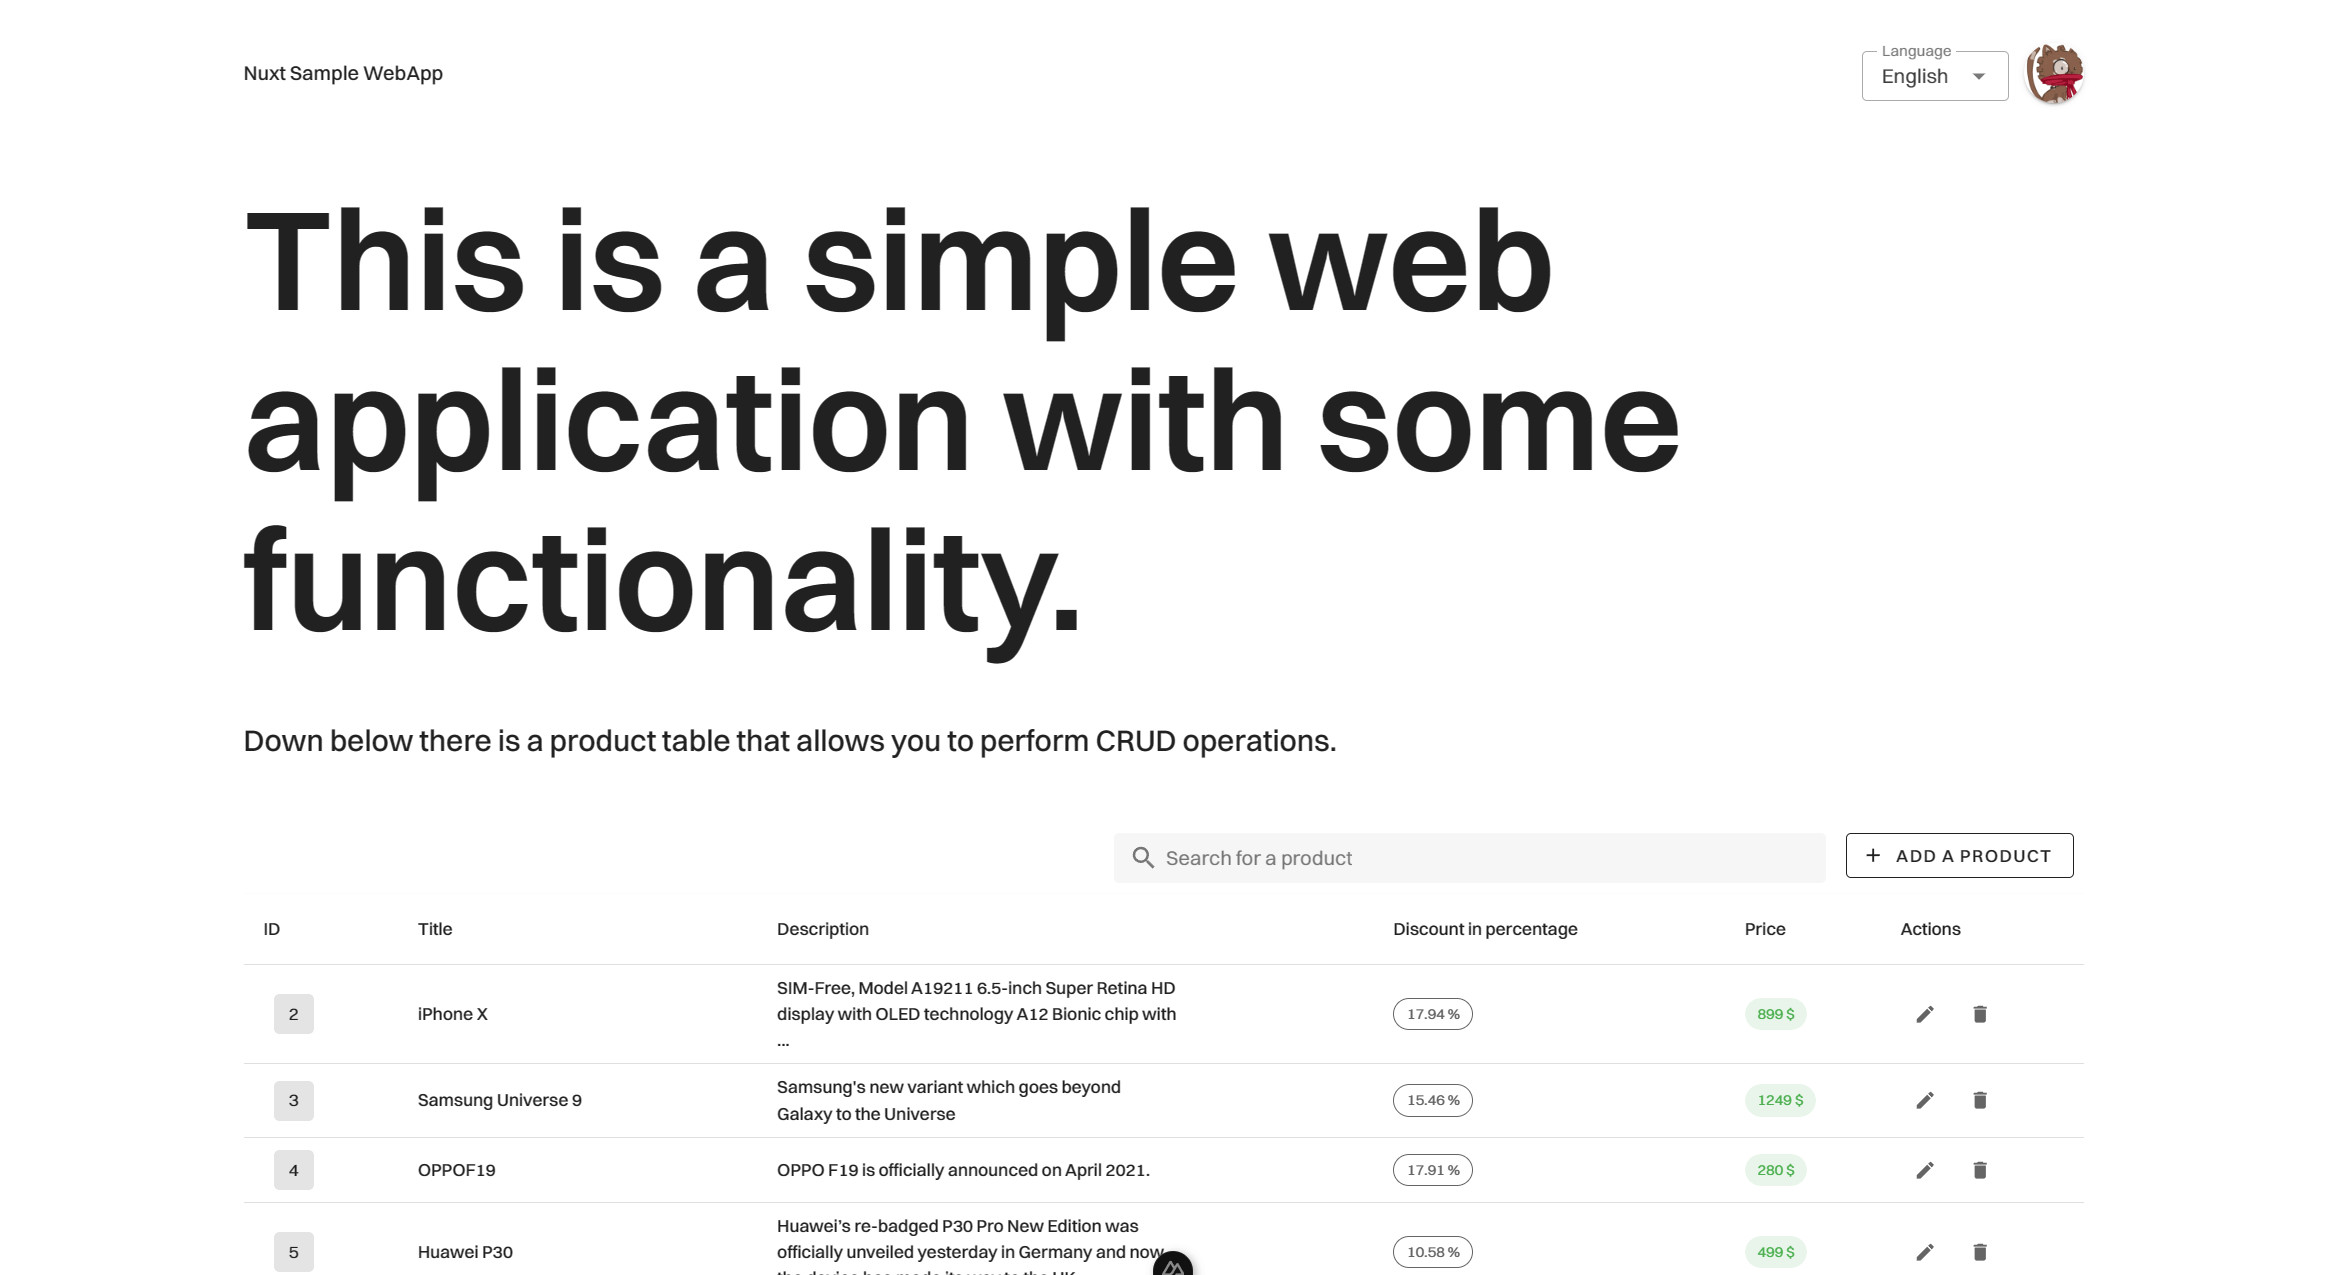
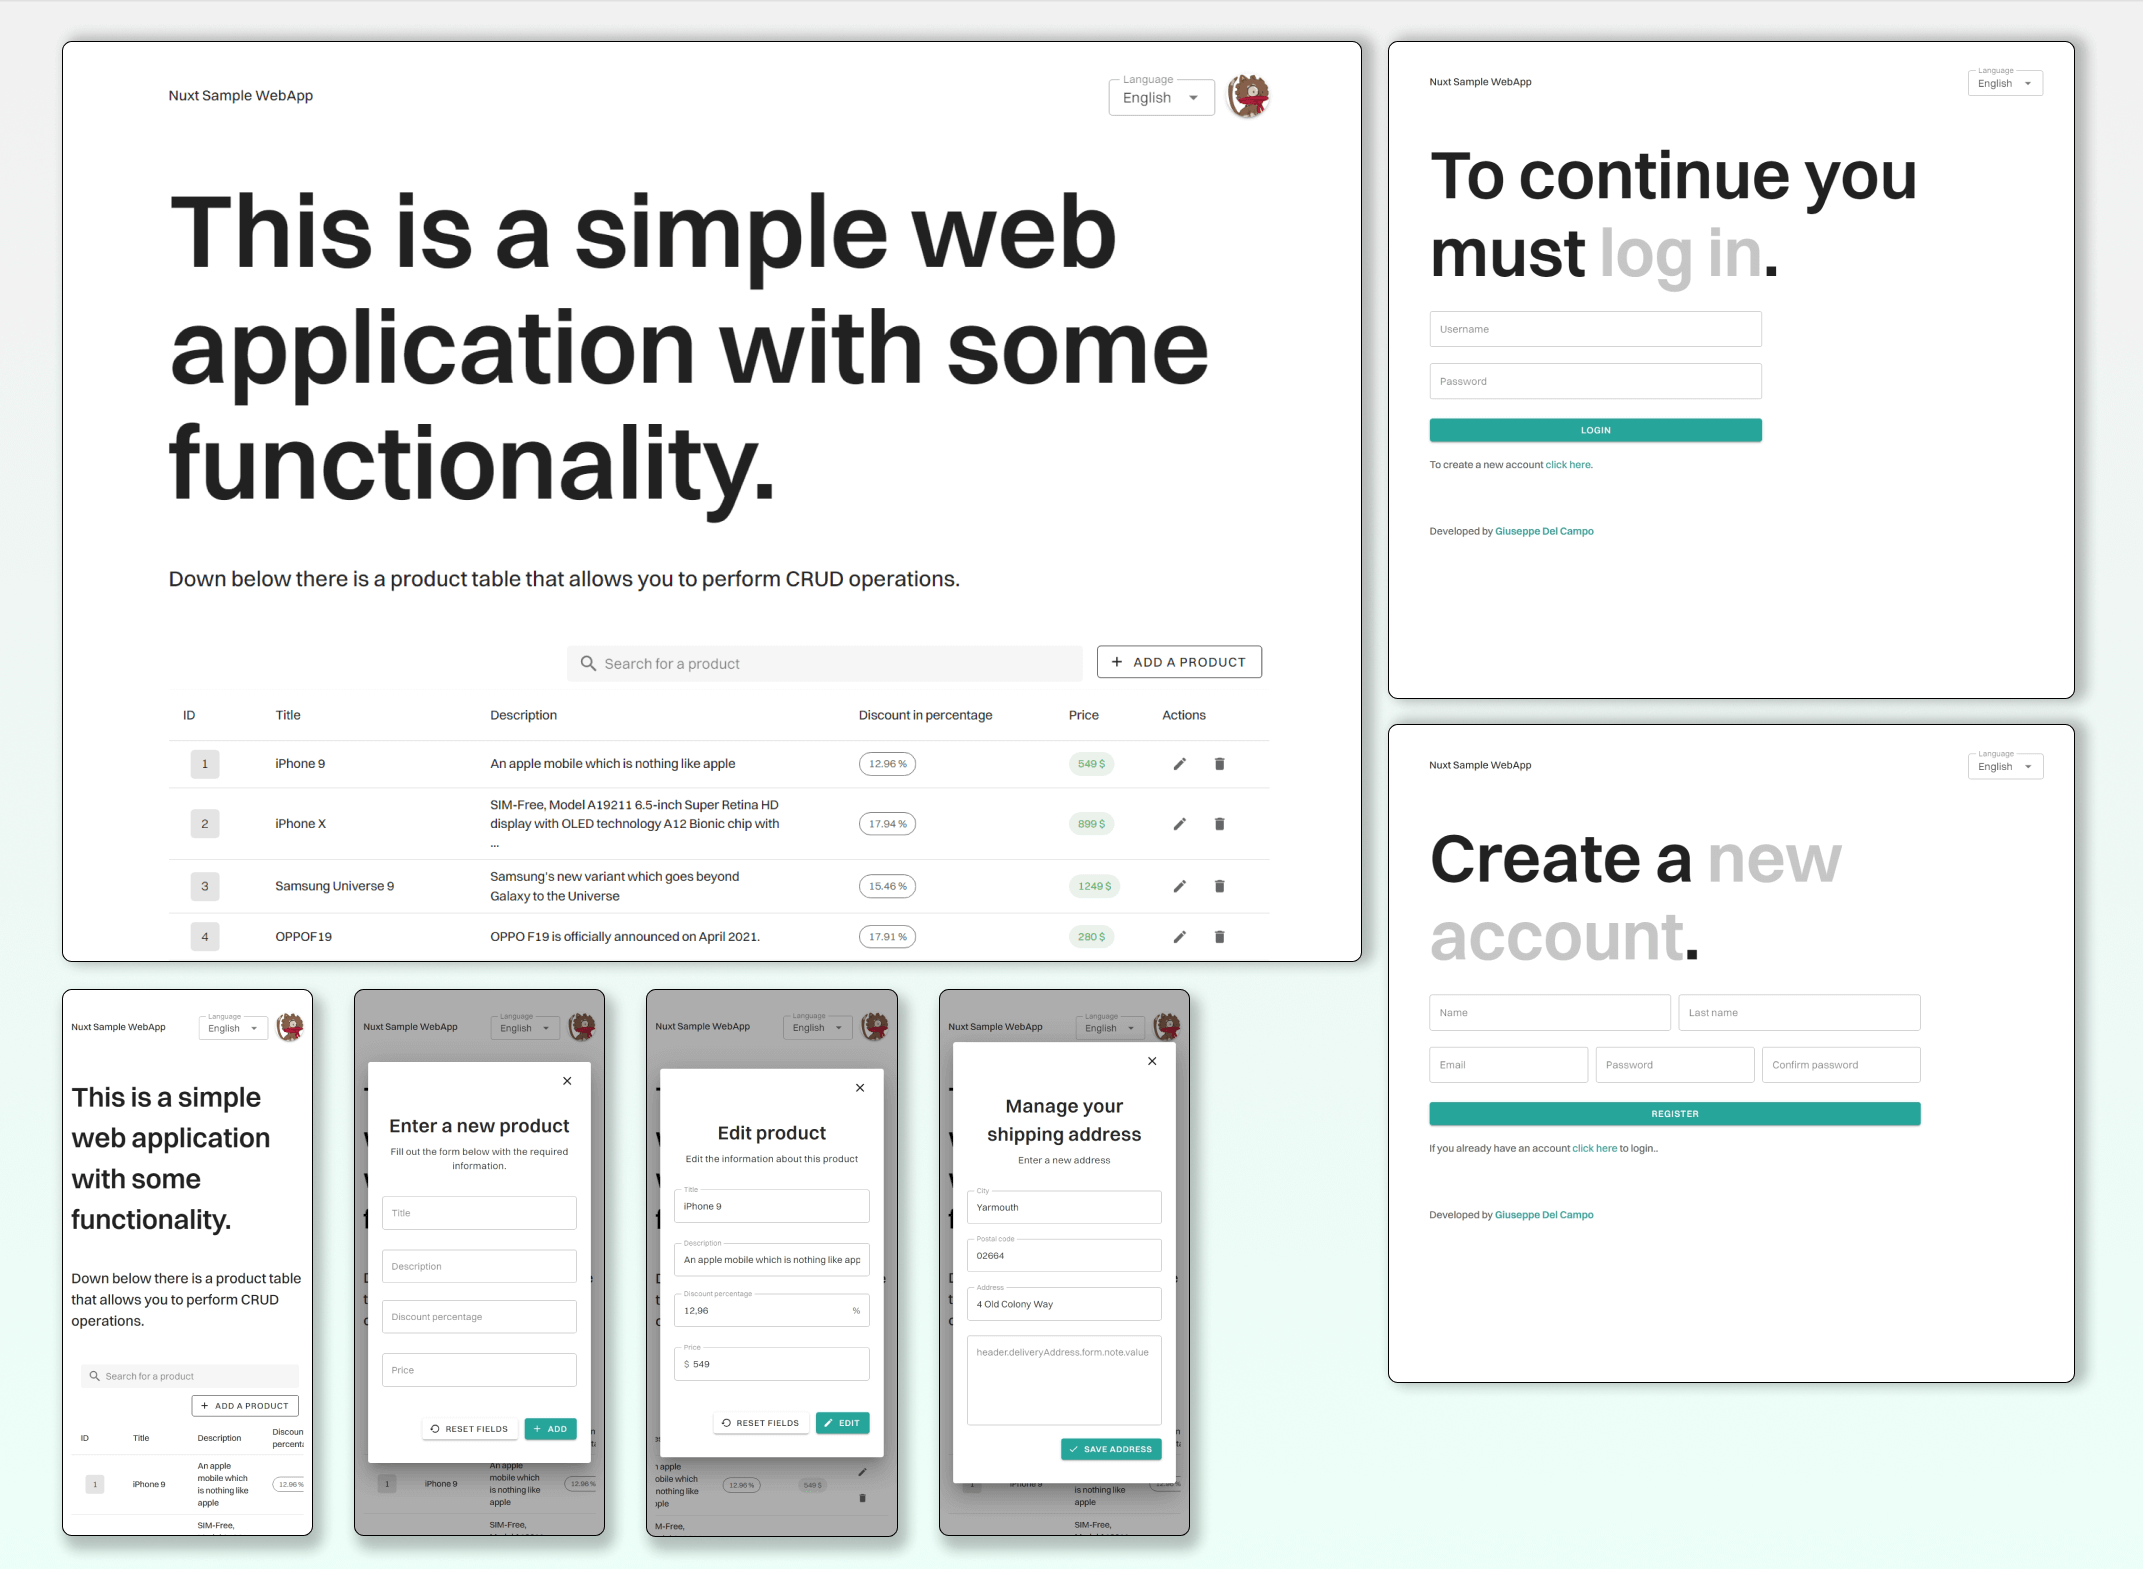
Improve README and preview

diff --git a/README.md b/README.md
@@ -1,11 +1,59 @@
 # Nuxtjs Sample Web Application
 
-![image_2024-03-03_17-18-54](https://github.com/Giuseppetm/nuxt-sample-webapp/assets/52317197/c9e7a1ff-fa36-4a10-855b-9b49e3d72c89)
+[![MIT license](https://img.shields.io/badge/License-MIT-blue.svg)](https://lbesson.mit-license.org/) 
+[![Netlify Status](https://api.netlify.com/api/v1/badges/75ab35d0-ca7c-4e18-9ec2-7da80cf7e325/deploy-status)](https://app.netlify.com/sites/nuxt-sample-webapp/deploys)
+[![GitHub issues](https://img.shields.io/github/issues/Giuseppetm/nuxt-sample-webapp)](https://github.com/Giuseppetm/nuxt-sample-webapp/issues)
 
-## Features
+![Preview](./public/preview.png)
 
-- Registration and login with mockup authentication;
-- Homepage with a table that allows to perform CRUD operations;
-- Responsive behaviour.
+This is a small project I developed for an interview for a front-end developer position that got me through the 2nd technical step.
 
-Fake API I am using: <https://dummyjson.com/>
+🎦 [Live Preview](https://nuxt-sample-webapp.netlify.app/)
+
+## Project requirements
+
+### Stack
+
+- Vue + framework of your choice (chosen: NuxtJS);
+- Javascript / Typescript (chosen: Typescript);
+- UI library of your choice (chosen: Vuetify).
+
+### Description
+
+With the suggested stack make a web app with the following pages:
+
+- Login;
+- User registration;
+- Shipping address form;
+- Table with CRUD operations on elements and server side search.
+
+For Rest API integration/consumption use fake API services at will (chosen: <https://dummyjson.com/>).
+
+As anticipated the goal is the creation of an app that is graphically pleasing and usable from any device focusing on FE aspects.
+
+## Login credentials
+
+| Username | Password |
+|----------|----------|
+| kminchelle | 0lelplR |
+
+You can find all the mocked APIs here: <https://dummyjson.com/>
+
+## 🕹 How to run the project locally
+
+1. Install dependencies
+   ```sh
+   npm install
+   ```
+
+2. Run the development server:
+
+   ```sh
+   npm run dev
+   ```
+
+For deploys I am currently using [Netlify](https://app.netlify.com/).
+
+### Docker
+
+I inserted also a `Dockerfile` and `docker-compose` if you want to use them.
